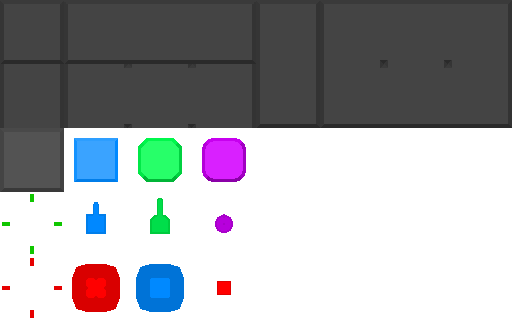
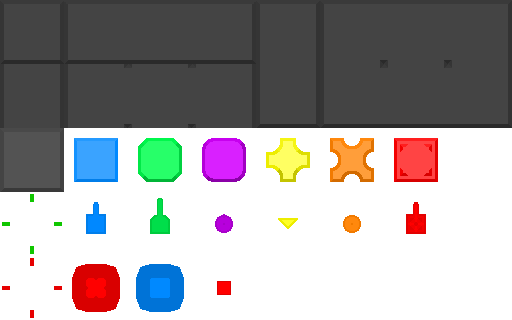
lol

diff --git a/script.js b/script.js
@@ -59,12 +59,11 @@ class Location {
     }
 }
 class TowerPrototype {
-    constructor (name, type, texture, turret, rotspeed, firerate, damage, range, color, offset, firewidth, fireduration) {
+    constructor (name, type, texture, turret, firerate, damage, range, color, offset, firewidth, fireduration, shots) {
         this.name = name;
         this.type = type;
         this.texture = texture;
         this.turret = turret;
-        this.rotspeed = rotspeed;
         this.firerate = firerate;
         this.damage = damage;
         this.range = range;
@@ -72,6 +71,7 @@ class TowerPrototype {
         this.offset = offset;
         this.firewidth = firewidth;
         this.fireduration = fireduration;
+        this.shots = shots;
     }
 }
 class Tower {
@@ -89,17 +89,17 @@ class Tower {
      * @param {String} color 
      * @param {Number} offset 
      */
-    constructor (name, type, x, y, texture, turret, rotspeed, firerate, damage, range, color, offset, firewidth, fireduration) {
+    constructor (name, type, x, y, texture, turret, firerate, damage, range, color, offset, firewidth, fireduration, shots=1) {
         this.name = name;
         this.type = type;
         this.x = x;
         this.y = y;
         this.texture = texture;
         this.turret = turret;
-        this.rotspeed = rotspeed;
         this.firerate = firerate;
         this.reload = 50/firerate;
         this.cooldown = 0;
+        this.shots = shots;
         this.damage = damage;
         this.level = 1;
         this.direction = 0;
@@ -118,6 +118,7 @@ class Tower {
     }
     tick () {
         //find enemy
+        var shots = this.shots;
         for (const enemy of G.T.E) {
             var difx = enemy.x * G.A.A.config.scale[0] - (this.x + 0.5) * G.A.A.config.scale[0];
             var dify = enemy.y * G.A.A.config.scale[1] - (this.y + 0.5) * G.A.A.config.scale[1];
@@ -126,20 +127,8 @@ class Tower {
             var directionDiff = direction - this.direction;
             if (directionDiff > 180) directionDiff -= 360;
             else if (directionDiff < -180) directionDiff += 360;
-            if (directionDiff < 0) this.left = true;
-            else this.left = false;
-            if (directionDiff > 0) this.right = true;
-            else this.right = false;
-            if (Math.abs(directionDiff) < this.rotspeed / 50) {
+            if (this.cooldown <= 0/*Math.abs(directionDiff) < this.rotspeed / 50*/) {
                 this.direction = direction;
-            } else {
-                if (this.right) this.direction += this.rotspeed / 50;
-                if (this.left) this.direction -= this.rotspeed / 50;
-                if (this.direction >= 360) {
-                    this.direction -= 360;
-                } else if (this.direction < 0) {
-                    this.direction += 360;  
-                }
             }
             var distance = (difx / Math.cos((direction - 90) * (Math.PI/180)));
             var hit = [distance * Math.sin(this.direction * (Math.PI/180)), -distance * Math.cos(this.direction * (Math.PI/180))];
@@ -159,9 +148,12 @@ class Tower {
                     (this.x + 0.5) + offset[0] / G.A.A.config.scale[0],
                     (this.y + 0.5) + offset[1] / G.A.A.config.scale[1],
                     this.duration));
-                this.cooldown = this.reload;
             }
-            break;
+            shots--
+            if (shots <= 0) break;
+        }
+        if (this.cooldown <= 0) {
+            this.cooldown = this.reload;
         }
         this.cooldown--;
     }
@@ -378,20 +370,35 @@ document.addEventListener('keydown', e => {
             else if (e.shiftKey) G.O.Y -= G.A.A.config.scale[1] * 5;
             else G.O.Y -= G.A.A.config.scale[1];
             break;
+        case 'KeyC':
+            if (getTile(G.A.C.X, G.A.C.Y, true).type == 'platform' && getTile(G.A.C.X, G.A.C.Y).tower == null) {
+                new Tower("Basic", 'basic', G.A.C.X, G.A.C.Y, 'basic', 'basic-turret', 2, 10, 2.5, '#007eeb', 20, 2, 10, 1);
+            } 
+            break;
+        case 'KeyV':
+            if (getTile(G.A.C.X, G.A.C.Y, true).type == 'platform' && getTile(G.A.C.X, G.A.C.Y).tower == null) {
+                new Tower("Sniper", 'sniper', G.A.C.X, G.A.C.Y, 'sniper', 'sniper-turret', 0.5, 40, 4.5, '#00cb3e', 26, 1, 25, 1);
+            } 
+            break;
         case 'KeyB':
             if (getTile(G.A.C.X, G.A.C.Y, true).type == 'platform' && getTile(G.A.C.X, G.A.C.Y).tower == null) {
-                new Tower("Basic", 'basic', G.A.C.X, G.A.C.Y, 'basic', 'basic-turret', 90, 2, 10, 2.5, '#007eeb', 20, 2, 10);
+                new Tower("Beam", 'beam', G.A.C.X, G.A.C.Y, 'beam', 'beam-turret', 50, 0.1, 1.25, '#b700dc', 9, 4, 2, 5);
             } 
             break;
         case 'KeyN':
             if (getTile(G.A.C.X, G.A.C.Y, true).type == 'platform' && getTile(G.A.C.X, G.A.C.Y).tower == null) {
-                new Tower("Sniper", 'sniper', G.A.C.X, G.A.C.Y, 'sniper', 'sniper-turret', 45, 0.5, 40, 4, '#00cb3e', 26, 1, 25);
-            } 
+                new Tower("Multishot", 'multi', G.A.C.X, G.A.C.Y, 'multi', 'multi-turret', 2, 5, 2, '#eded00', 4, 2, 10, 3);
+            }
             break;
         case 'KeyM':
             if (getTile(G.A.C.X, G.A.C.Y, true).type == 'platform' && getTile(G.A.C.X, G.A.C.Y).tower == null) {
-                new Tower("Beam", 'beam', G.A.C.X, G.A.C.Y, 'beam', 'beam-turret', 1800, 50, 0.8, 1.25, '#b700dc', 9, 4, 2);
-            } 
+                new Tower("Aura", 'aura', G.A.C.X, G.A.C.Y, 'aura', 'aura-turret', 50, 0.02, 1.5, '#f17a00', 0, 0.2, 2, 200);
+            }
+            break;
+        case 'KeyZ':
+            if (getTile(G.A.C.X, G.A.C.Y, true).type == 'platform' && getTile(G.A.C.X, G.A.C.Y).tower == null) {
+                new Tower("Ultimate", 'super', G.A.C.X, G.A.C.Y, 'super', 'super-turret', 4, 20, 3.5, '#f30000', 20, 2, 10, 2);
+            }
             break;
         case 'KeyE':
             G.A.E.basic.generate(1, 1, 1);
@@ -399,11 +406,11 @@ document.addEventListener('keydown', e => {
         case 'KeyX':
         case 'Backspace':
         case 'Delete':
-            if (getTile(G.A.C.X, G.A.C.Y, true).tower != null) {
-                if (G.T.B.indexOf(getTile(G.A.C.X, G.A.C.Y).tower) != -1) {
-                    G.T.B.splice(G.T.T.indexOf(getTile(G.A.C.X, G.A.C.Y).tower), 1);
-                    getTile(G.A.C.X, G.A.C.Y, true).tower = null;
-                }
+            for (var i = 0; i < G.T.B.length; i++) {
+                if (G.T.B[i].x == G.A.C.X && G.T.B[i].y == G.A.C.Y && getTile(G.T.B[i].x, G.T.B[i].y, true).tower != null) {
+                    getTile(G.T.B[i].x, G.T.B[i].y).tower = null;
+                    G.T.B.splice(i, 1);
+                } 
             }
     }
     } catch (err) {
@@ -613,6 +620,11 @@ function DrawUI () {
         G.C.font = "16px 'Press Start 2P', sans-serif";
         G.C.fillText("Kills: " + tower.kills.toLocaleString(), 10, G.height - offset + 44);
         G.C.fillText("Earned: " + tower.earned.toLocaleString() + "p", 10, G.height - offset + 64);
+        G.C.fillText("Fire Rate: " + tower.firerate.toFixed(1) + "/s", 10, G.height - offset + 84);
+        G.C.fillText("Damage: " + tower.damage.toFixed(1), 10, G.height - offset + 104);
+        G.C.fillText("DPS: " + (tower.firerate * tower.damage).toFixed(1) + "/s", 10, G.height - offset + 124); 
+        G.C.fillText("Range: " + tower.range.toFixed(2), 10, G.height - offset + 144);
+        G.C.fillText("Shots: " + tower.shots.toFixed(0) + " (" + (tower.firerate * tower.damage * tower.shots).toFixed(0) + " DPS)", 10, G.height - offset + 164);
     }
     G.C.textBaseline = 'alphabetic';
     G.C.fillStyle = 'gold';

diff --git a/atlas.js b/atlas.js
@@ -97,6 +97,24 @@ G.A.A = {
         ],
         "enemy-basic": [
             192, 256
+        ],
+        "multi": [
+            256, 128
+        ],
+        "multi-turret": [
+            256, 192
+        ],
+        "aura": [
+            320, 128
+        ],
+        "aura-turret": [
+            320, 192
+        ],
+        "super": [
+            384, 128
+        ],
+        "super-turret": [
+            384, 192
         ]
     }
 }
